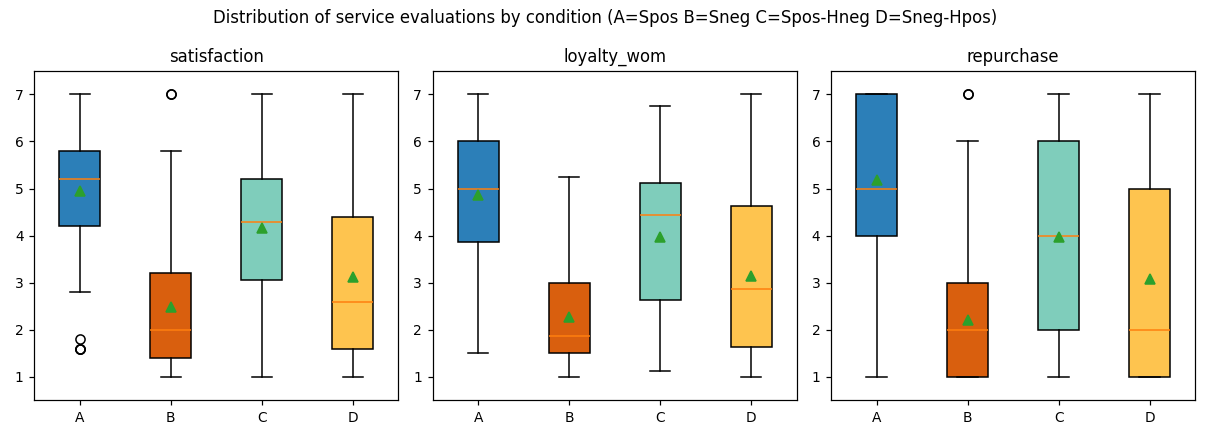
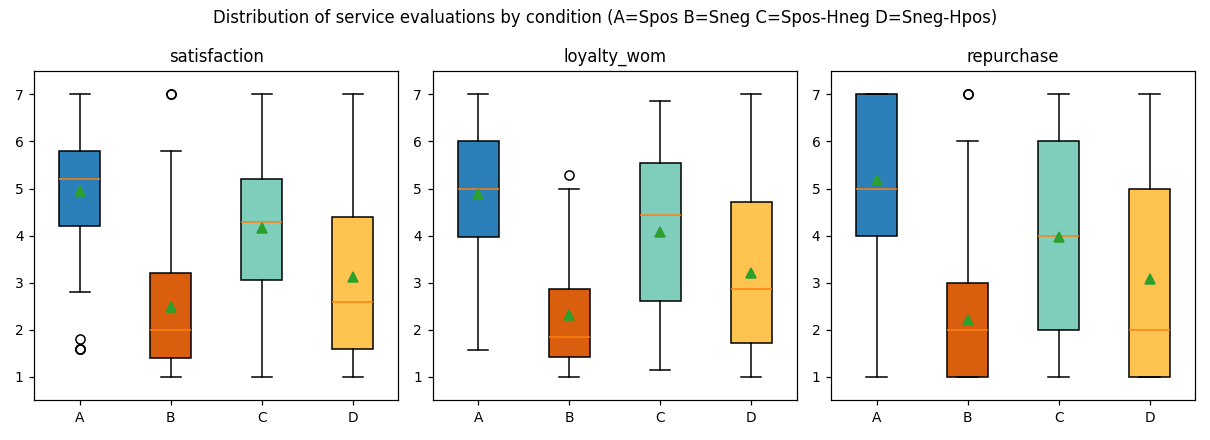
Fix loyalty scale: remove block-A duplicate, align items across blocks
Block A (Q30) repeated "encourage to purchase" in slots 6 and 8 (r=.86)
and omitted the online-WOM item, while B/C/D used slots 7/8 for online-WOM
and personal-conversation items. Coalescing by raw slot mixed different
items. Rebuilt loyalty as a 7-item content-aligned scale: dropped the
duplicate (Q30_8) and the online-WOM item (absent in block A; kept
separately as loy_online_BCD). Results robust: alpha .954, ANOVA and
spill-over contrasts essentially unchanged.

https://claude.ai/code/session_01GJjxtfLA6vkY6yB1S6YDKA

diff --git a/analysis/eda.py b/analysis/eda.py
@@ -20,7 +20,8 @@ Constructs (same battery repeats inside every condition block, by slot position)
     perc_value      2 Likert items   1..7
     overall_value   1 MC item        1..7   (text endpoints: very low / very high)
     satisfaction    5 Likert items   1..7
-    loyalty_wom     8 Likert items   1..7
+    loyalty_wom     7 Likert items   1..7   (content-aligned; block-A duplicate removed,
+                                             online-WOM item dropped - see note in code)
     repurchase      1 MC item        1..7   (text endpoints: very low / very high)
 """
 import warnings
@@ -98,12 +99,35 @@ df["pval_2"]        = coalesce(["Q27_2", "Q35_2", "Q43_2", "Q51_2"])
 df["overall_value"] = coalesce(["Q28", "Q36", "Q44", "Q52"])
 for i in range(1, 6):
     df[f"sat_{i}"] = coalesce([f"Q29_{i}", f"Q37_{i}", f"Q45_{i}", f"Q53_{i}"])
-for i in range(1, 9):
-    df[f"loy_{i}"] = coalesce([f"Q30_{i}", f"Q38_{i}", f"Q46_{i}", f"Q54_{i}"])
+
+# --- Loyalty/WOM: content-aligned 7-item scale (see note below) -----------------
+# The raw 8 slots are NOT comparable across blocks:
+#   * Block A (Q30) repeats "encourage friends/relatives to purchase" in slots 6 AND 8
+#     (a duplicate; the two ratings correlate r=.86) and OMITS the online-WOM item.
+#   * Blocks B/C/D (Q38/Q46/Q54) use slot 7 = "express positive opinions online" and
+#     slot 8 = "speak positively in personal conversations".
+# Coalescing by raw slot therefore mixed different items in slots 7 & 8. We rebuild
+# the scale by CONTENT: drop the block-A duplicate (Q30_8) and the online-WOM item
+# (present only in B/C/D, so unusable in a cross-condition scale), and map the
+# "personal conversations" item from its true per-block slot.
+LOY_MAP = {
+    "loy_1": ["Q30_1", "Q38_1", "Q46_1", "Q54_1"],  # continue using for years
+    "loy_2": ["Q30_2", "Q38_2", "Q46_2", "Q54_2"],  # first choice
+    "loy_3": ["Q30_3", "Q38_3", "Q46_3", "Q54_3"],  # would choose if free
+    "loy_4": ["Q30_4", "Q38_4", "Q46_4", "Q54_4"],  # recommend to advice-seekers
+    "loy_5": ["Q30_5", "Q38_5", "Q46_5", "Q54_5"],  # recommend to friends/relatives
+    "loy_6": ["Q30_6", "Q38_6", "Q46_6", "Q54_6"],  # encourage to purchase
+    "loy_7": ["Q30_7", "Q38_8", "Q46_8", "Q54_8"],  # speak positively in conversations
+}
+for name, cols in LOY_MAP.items():
+    df[name] = coalesce(cols)
+# Online-WOM item kept separately (B/C/D only; NaN for condition A) for optional use.
+df["loy_online_BCD"] = coalesce(["Q38_7", "Q46_7", "Q54_7"])
+
 df["repurchase"]    = coalesce(["Q31", "Q39", "Q47", "Q55"])
 
 SAT_ITEMS = [f"sat_{i}" for i in range(1, 6)]
-LOY_ITEMS = [f"loy_{i}" for i in range(1, 9)]
+LOY_ITEMS = list(LOY_MAP.keys())             # 7 content-aligned items (duplicate removed)
 PVAL_ITEMS = ["pval_1", "pval_2"]
 
 df["perc_value"]   = df[PVAL_ITEMS].mean(axis=1)
@@ -166,10 +190,11 @@ print(f"Speeders < 60s  (finished): {(fd < 60).sum()}")
 print(f"Very long > 1h  (finished): {(fd > 3600).sum()}  (Qualtrics keeps tab open -> inflated)")
 print(f"Median minutes  (finished): {fd.median()/60:.1f} min")
 
-# straightlining on the 8-item loyalty battery (zero variance across items)
+# straightlining on the loyalty battery (zero variance across items)
 loy = df[LOY_ITEMS]
-straight = (loy.notna().sum(axis=1) >= 8) & (loy.std(axis=1, ddof=0) == 0)
-print(f"\nStraight-lining on 8-item loyalty battery (all identical): {int(straight.sum())} respondents")
+n_loy_items = len(LOY_ITEMS)
+straight = (loy.notna().sum(axis=1) >= n_loy_items) & (loy.std(axis=1, ddof=0) == 0)
+print(f"\nStraight-lining on {n_loy_items}-item loyalty battery (all identical): {int(straight.sum())} respondents")
 
 # ===================================================== 3. CONDITION ASSIGNMENT
 h("3. EXPERIMENTAL CONDITION ASSIGNMENT (between-subjects)")
@@ -201,8 +226,9 @@ h("5. SCALE RELIABILITY (Cronbach's alpha, analytic sample)")
 a_sat, n_sat = cronbach_alpha(ana[SAT_ITEMS])
 a_loy, n_loy = cronbach_alpha(ana[LOY_ITEMS])
 print(f"  Satisfaction    (5 items) : alpha = {a_sat:.3f}   (n={n_sat})")
-print(f"  Loyalty / WOM   (8 items) : alpha = {a_loy:.3f}   (n={n_loy})")
-print("  NOTE: loyalty slots 6 & 8 share identical wording in block A (qsf) -> check item bank.")
+print(f"  Loyalty / WOM   (7 items) : alpha = {a_loy:.3f}   (n={n_loy})")
+print("  NOTE: loyalty rebuilt as 7 content-aligned items: block-A duplicate")
+print("        (Q30_8 = Q30_6) removed; online-WOM item dropped (absent in block A).")
 
 print("\nScale score descriptives (1..7; situation is 1=positive..6=negative):")
 desc = ana[["situation"] + DV_ROBUST].describe().T
